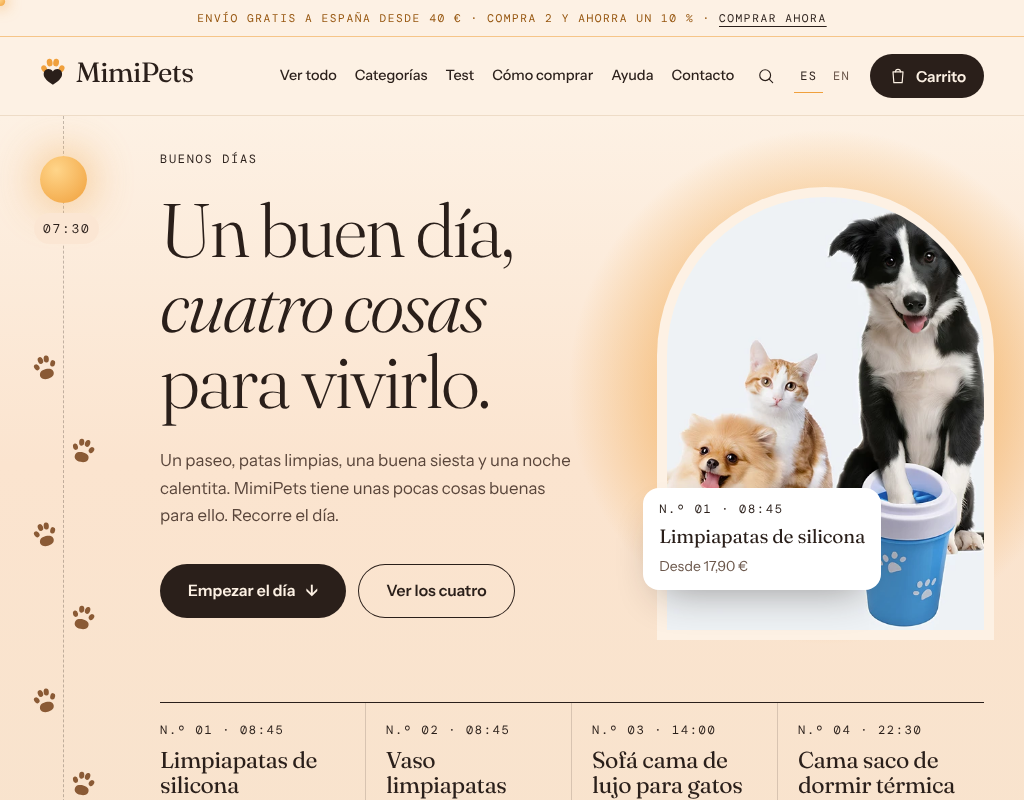
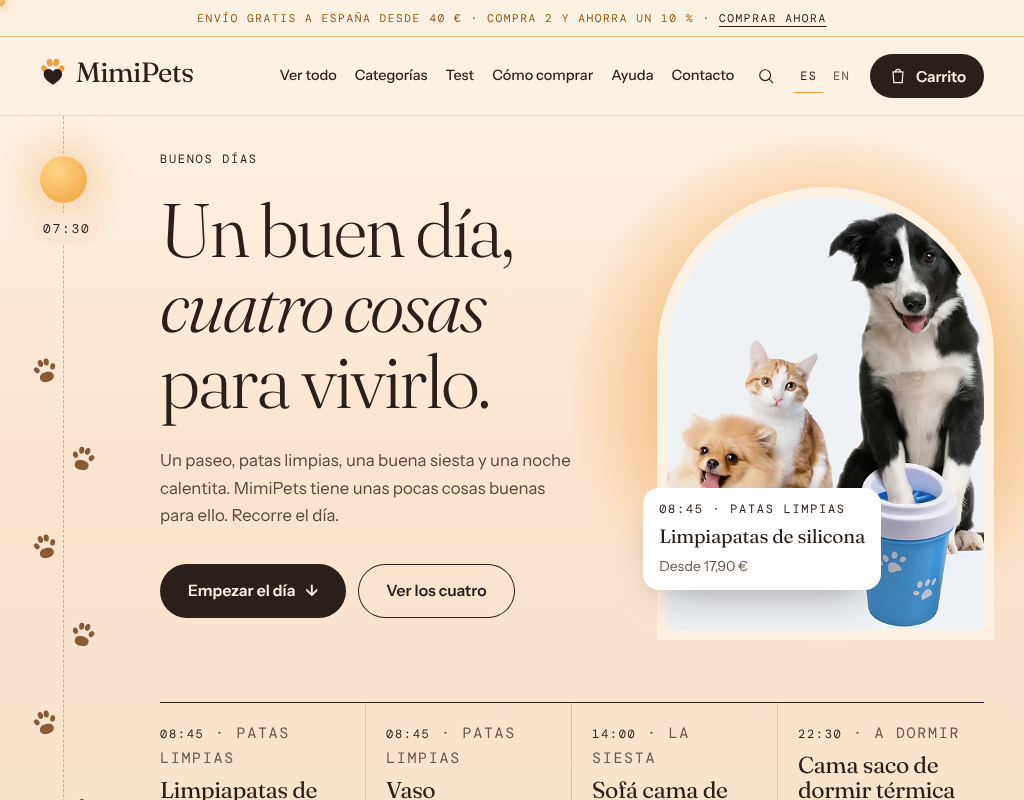
Remove the product numbers
"No. 01", "No. 02"… are gone from the home page, the product cards and the
product pages. Products keep their time of day with the moment's name
("08:45 · Clean paws"); the narrow swipe cards on small screens show the
time alone.

Claude-Session: https://claude.ai/code/session_01W8hsiWPjb2UxqJw8UVpYvn

diff --git a/src/app/[lang]/page.tsx b/src/app/[lang]/page.tsx
@@ -63,7 +63,8 @@ export default async function HomePage(props: PageProps<"/[lang]">) {
   const count = lineup.length;
   const word = t.numberWords[count] ?? String(count);
   const things = count === 1 ? t.thingsOne : fmt(t.thingsMany, { n: word });
-  const numberOf = (e: DayEntry<Product>) => fmt(t.number, { n: e.number });
+  // "08:45 · Patas limpias": when in the day a product is met.
+  const momentOf = (e: DayEntry<Product>) => `${e.time} · ${t.moments[e.moment]}`;
   const sceneOf = (p: Product) => p.images[0] ?? p.featuredImage;
   const measurementsOf = (p: Product) => sizeChartImage(p.images)?.altText ?? null;
   const from = (p: Product) =>
@@ -83,7 +84,7 @@ export default async function HomePage(props: PageProps<"/[lang]">) {
       product={slim(e.product)}
       layout="feature"
       flip={e.moment === "night" ? i % 2 === 0 : i % 2 === 1}
-      number={numberOf(e)}
+      anchor={`no-${e.number}`}
       scene={sceneOf(e.product)}
       measurements={measurementsOf(e.product)}
       href={href(`/products/${e.product.handle}`)}
@@ -224,7 +225,7 @@ export default async function HomePage(props: PageProps<"/[lang]">) {
               </Link>
               <Link href={href(`/products/${first.product.handle}`)} className={styles.caption}>
                 <span className="mono">
-                  {numberOf(first)} · {first.time}
+                  {momentOf(first)}
                 </span>
                 <b>{first.product.title}</b>
                 <span>{from(first.product)}</span>
@@ -250,7 +251,9 @@ export default async function HomePage(props: PageProps<"/[lang]">) {
                     ) : null}
                   </span>
                   <span className="mono">
-                    {numberOf(e)} · {e.time}
+                    {e.time}
+                    {/* The moment's name is left out on the narrow cards of small screens. */}
+                    <span className={styles.lineupMoment}> · {t.moments[e.moment]}</span>
                   </span>
                   <b>{e.product.title}</b>
                   <span>{from(e.product)}</span>
@@ -319,7 +322,7 @@ export default async function HomePage(props: PageProps<"/[lang]">) {
                 key={e.product.handle}
                 product={slim(e.product)}
                 layout="plate"
-                number={numberOf(e)}
+                anchor={`no-${e.number}`}
                 measurements={measurementsOf(e.product)}
                 href={href(`/products/${e.product.handle}`)}
               />

diff --git a/src/components/home/DayProduct.tsx b/src/components/home/DayProduct.tsx
@@ -31,8 +31,8 @@ type Props = {
   layout: "plate" | "feature";
   /** Feature only: photo on the right. */
   flip?: boolean;
-  /** "No. 01" */
-  number: string;
+  /** The id the day's line-up links to. */
+  anchor: string;
   /** A photo of the product at home, shown until a colour is picked. */
   scene?: Image | null;
   /** The real measurements, from the product's size chart. */
@@ -46,7 +46,7 @@ type Props = {
  * A product inside the day's story, ready to buy where it stands: the colour
  * dots change the photo, sizes are one tap, and Add to cart works right here.
  */
-export function DayProduct({ product, layout, flip, number, scene, measurements, href, intro }: Props) {
+export function DayProduct({ product, layout, flip, anchor, scene, measurements, href, intro }: Props) {
   const { dict } = useI18n();
   const t = dict.product;
   const h = dict.home;
@@ -112,11 +112,8 @@ export function DayProduct({ product, layout, flip, number, scene, measurements,
           />
         </span>
       </div>
-      {layout === "plate" ? (
-        <>
-          <span className={`mono ${styles.no}`}>{number}</span>
-          {product.badge ? <span className={`mono ${styles.flag}`}>{product.badge}</span> : null}
-        </>
+      {layout === "plate" && product.badge ? (
+        <span className={`mono ${styles.flag}`}>{product.badge}</span>
       ) : null}
     </div>
   );
@@ -193,7 +190,6 @@ export function DayProduct({ product, layout, flip, number, scene, measurements,
     </div>
   );
 
-  const anchor = `no-${number.replace(/\D/g, "")}`;
   if (layout === "plate") {
     return (
       <article className={styles.plate} id={anchor}>
@@ -212,7 +208,6 @@ export function DayProduct({ product, layout, flip, number, scene, measurements,
       <div className={styles.featureText}>
         {intro}
         <h3 className={styles.featureTitle}>
-          <span className={`mono ${styles.featureNo}`}>{number}</span>
           <Link href={href}>{product.title}</Link>
         </h3>
         {specs}

diff --git a/src/app/[lang]/products/[handle]/page.tsx b/src/app/[lang]/products/[handle]/page.tsx
@@ -76,10 +76,10 @@ export default async function ProductPage(props: PageProps<"/[lang]/products/[ha
   const compare = beforeAfterImages(product.images);
   const catalogue = await getProducts(lang, { sort: "best-selling", limit: 8 });
   const related = pairsWith(catalogue, [product], 3);
-  // The product's number and moment in the day (see the home page).
+  // When in the day the product is met (see the home page).
   const entry = dayLineup(catalogue).find((e) => e.product.handle === product.handle);
   const moment = entry
-    ? `${fmt(dict.home.number, { n: entry.number })} · ${entry.time} · ${dict.home.moments[entry.moment]}`
+    ? `${entry.time} · ${dict.home.moments[entry.moment]}`
     : null;
   // Similar products (the other paw washer, the other bed) to compare with this one.
   const kind = kindOf(product.illustration);

diff --git a/src/lib/content/day.ts b/src/lib/content/day.ts
@@ -3,7 +3,7 @@ import type { Illustration } from "@/lib/commerce/types";
 
 /**
  * "One good day": the shop is told as a pet's day. Each product belongs to a
- * moment of it, and carries a number in the order the day meets them.
+ * moment of it, in the order the day meets them.
  */
 export type Moment = "dawn" | "walk" | "clean" | "nap" | "night";
 export type ProductMoment = "clean" | "nap" | "night";
@@ -19,7 +19,7 @@ export const DAY_TIMES: Record<Moment, string> = {
 export type DayEntry<T> = {
   product: T;
   moment: ProductMoment;
-  /** "01", "02"… in the order of the day. */
+  /** "01", "02"… in the order of the day; it names the product's place on the home page. */
   number: string;
   time: string;
 };

diff --git a/src/components/home/Day.module.css b/src/components/home/Day.module.css
@@ -573,19 +573,12 @@
     scale: 1.04;
   }
 }
-.no,
 .flag {
   position: absolute;
   top: 16px;
   z-index: 1;
   padding: 7px 13px;
   border-radius: 999px;
-}
-.no {
-  left: 16px;
-  background: #fff;
-  color: #14231d;
-  box-shadow: 0 4px 12px -6px rgba(20, 35, 29, 0.35);
 }
 .flag {
   right: 16px;
@@ -800,13 +793,8 @@
   opacity: 0.85;
 }
 .featureTitle {
-  display: grid;
-  gap: 10px;
   margin: 34px 0 16px;
   font-size: clamp(1.9rem, 3vw, 2.5rem);
-}
-.featureNo {
-  opacity: 0.75;
 }
 .night .content {
   padding-top: calc(var(--dusk) + 90px);
@@ -1259,6 +1247,9 @@
   }
   .lineup a > :not(.thumb) {
     grid-column: 2;
+  }
+  .lineupMoment {
+    display: none;
   }
   .thumb {
     position: relative;

diff --git a/src/components/product/ProductDetail.tsx b/src/components/product/ProductDetail.tsx
@@ -39,7 +39,7 @@ export function ProductDetail({
   children,
 }: {
   product: Product;
-  /** "No. 03 · 14:00 · The nap": the product's place in the day. */
+  /** "14:00 · The nap": the product's place in the day. */
   moment?: string | null;
   perks?: React.ReactNode;
   children?: React.ReactNode;

diff --git a/src/i18n/dictionaries/es.ts b/src/i18n/dictionaries/es.ts
@@ -78,7 +78,6 @@ export const es: Dictionary = {
     shopAll: "Ver los {n}",
     shopAllPlain: "Ver todo",
     lineupLabel: "Los productos del día",
-    number: "N.º {n}",
     walkEyebrow: "El paseo",
     walkTitle: "Todo empieza fuera. Charcos, hierba, {em}",
     walkTitleEm: "barro del bueno.",

diff --git a/src/i18n/dictionaries/en.ts b/src/i18n/dictionaries/en.ts
@@ -82,7 +82,6 @@ export const en = {
     shopAll: "Shop all {n}",
     shopAllPlain: "Shop all",
     lineupLabel: "The day’s line-up",
-    number: "No. {n}",
     walkEyebrow: "The walk",
     walkTitle: "It starts outside. Puddles, grass, {em}",
     walkTitleEm: "the good kind of mud.",

diff --git a/docs/MOTION.md b/docs/MOTION.md
@@ -101,7 +101,7 @@ buttons give a little when pressed, and the menu opens with large numbered
 links.
 
 Products are placed by `dayLineup` in
-`src/lib/content/day.ts`; the same number and moment show on each product
+`src/lib/content/day.ts`; the same time and moment show on each product
 page. With reduced motion everything is simply in place.
 
 ## Shop and collections
